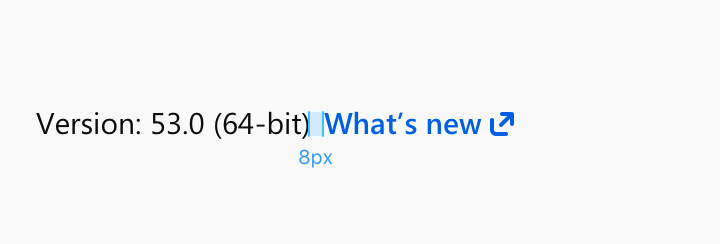
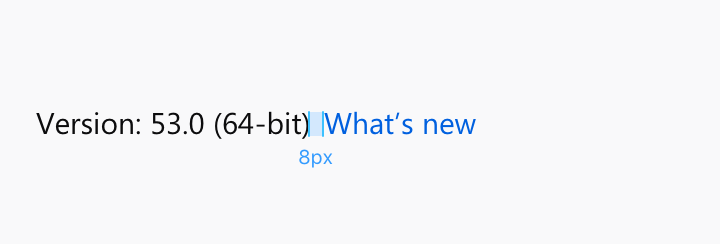
Deploy 91de5687c7ce...a2409196a8f1 to GitHub Pages.

Changed region(s): [[0.4583, 0.459, 0.7333, 0.5738]]

diff --git a/contents/components/link.html b/contents/components/link.html
@@ -22,53 +22,113 @@
 <section>
   <h2>Usage</h2>
   <p>
-  Use text links as navigation to guide users to a new page or to anchor users to a section within a page. For calling an action that result in an immediate change, use buttons instead. 
+  Use text links as navigation to guide users to a new page or to anchor users to a section within a page. For calling an action that results in an immediate change, use buttons instead. 
   <a href="buttons.html">See buttons</a> 
   </p>
 </section>
 
 <section>
-  <h2>Styles</h2>
+  <h2>Types</h2>
+ 
   <div class="cf nr2 nl2">
-    <div class="fl-ns w-40-ns ph2">
+    <div class="fl-ns w-50-ns ph2">
+      <img class="w-100" src="../images/link/Internal-link.png" alt="">
+      <h4>Internal link</h4>
+      <p>
+      Internal links direct users to a page inside the Mozilla properties (e.g. SUMO, Pocket) or jump into a specific part on the same page. 
+      </p>
+    </div>
+    
+    <div class="fl-ns w-50-ns ph2">
+      <img class="w-100" src="../images/link/External-link.png" alt="">
+      <h4>External link</h4>
+      <p>External links direct users to an external page which is not produced by Mozilla.
+      <br>An <a href="http://design.firefox.com/icons/viewer/#open">Open In New</a>  icon should be paired with the external link.
+    </div>
+  </div>
+</section>
+
+<section>
+  <h2>Styles</h2>
+  <h3>Light Background</h3>
+  <div class="cf nr2 nl2">
+    <div class="fl-ns w-70-ns ph2">
       <img class="w-100" src="../images/link/link-normal.png" alt="">
     </div>
-    <div class="fl-ns w-60-ns ph2">
-      <p>Font weight: Semibold<br/>Color: Blue 60 <code>#0060df</code></p>
+    <div class="fl-ns w-30-ns ph2">
+      <p>Font weight: Normal<br/>Color: Blue 60 <code>#0060df</code></p>
     </div>
   </div>
 
   <div class="cf nr2 nl2">
-    <div class="fl-ns w-40-ns ph2">
+    <div class="fl-ns w-70-ns ph2">
       <img class="w-100" src="../images/link/link-hover.png" alt="">
     </div>
-    <div class="fl-ns w-60-ns ph2">
-      <p>Font weight: Semibold<br/>Color: Blue 60 <code>#0060df</code></p>
+    <div class="fl-ns w-30-ns ph2">
+      <p>Font weight: Normal<br/>Color: Blue 60 <code>#0060df</code></p>
     </div>
   </div>
 
   <div class="cf nr2 nl2">
-    <div class="fl-ns w-40-ns ph2">
+    <div class="fl-ns w-70-ns ph2">
       <img class="w-100" src="../images/link/link-pressed.png" alt="">
     </div>
-    <div class="fl-ns w-60-ns ph2">
-      <p>Font weight: Semibold<br/>Color: Blue 70 <code>#003eaa</code></p>
+    <div class="fl-ns w-30-ns ph2">
+      <p>Font weight: Normal<br/>Color: Blue 70 <code>#003eaa</code></p>
     </div>
   </div>
 
   <div class="cf nr2 nl2">
-   <div class="fl-ns w-40-ns ph2">
+   <div class="fl-ns w-70-ns ph2">
       <img class="w-100" src="../images/link/link-focused.png" alt="">
     </div>
-    <div class="fl-ns w-60-ns ph2">
-      <p>Font weight: Semibold<br/>Color: Blue 60 <code>#0060df</code><br/>With focused square</p>
+    <div class="fl-ns w-30-ns ph2">
+      <p>Font weight: Normal<br/>Color: Blue 60 <code>#0060df</code><br/>With focused square</p>
+    </div>
+  </div>
+
+
+  <h3>Dark Background</h3>
+  <div class="cf nr2 nl2">
+    <div class="fl-ns w-70-ns ph2">
+      <img class="w-100" src="../images/link/link-normal-darkbg.png" alt="">
+    </div>
+    <div class="fl-ns w-30-ns ph2">
+      <p>Font weight: Normal<br/>Color: White <code>#ffffff</code></p>
+    </div>
+  </div>
+
+  <div class="cf nr2 nl2">
+    <div class="fl-ns w-70-ns ph2">
+      <img class="w-100" src="../images/link/link-hover-darkbg.png" alt="">
+    </div>
+    <div class="fl-ns w-30-ns ph2">
+      <p>Font weight: Normal<br/>Color: White <code>#ffffff</code></p>
+    </div>
+  </div>
+
+  <div class="cf nr2 nl2">
+    <div class="fl-ns w-70-ns ph2">
+      <img class="w-100" src="../images/link/link-pressed-darkbg.png" alt="">
+    </div>
+    <div class="fl-ns w-30-ns ph2">
+      <p>Font weight: Normal<br/>Color: White <code>#ffffff</code></p>
+    </div>
+  </div>
+
+  <div class="cf nr2 nl2">
+   <div class="fl-ns w-70-ns ph2">
+      <img class="w-100" src="../images/link/link-focused-darkbg.png" alt="">
+    </div>
+    <div class="fl-ns w-30-ns ph2">
+      <p>Font weight: Normal<br/>Color: White <code>#ffffff</code><br/>With focused square</p>
     </div>
   </div>
 </section>
 
 <section>
   <h2>Examples</h2>
-  <p> A link can follow after a sentence or an option. For a better understanding of the relationship between the link and the sententce/option, stick the link next to what it related.</p>  
+  <p> A link can go after a sentence or an option. For a better understanding of the relationship between the link and the sententce/option, stick the link next to what it is related to.</p>  
   
   <div class="cf nr2 nl2">
     <div class="fl-ns w-50-ns ph2">

diff --git a/contents/patterns/shadows.html b/contents/patterns/shadows.html
@@ -4,7 +4,7 @@
 <section>
   <h2>Usage</h2>
   <p>
-    When you need to highlight the difference in elevantion between two componetns you can use shadows.
+    When you need to highlight the difference in elevantion between two components you can use shadows.
   </p>
   <h2>Style</h2>
   <div class="cf nr2 nl2 mb3">
